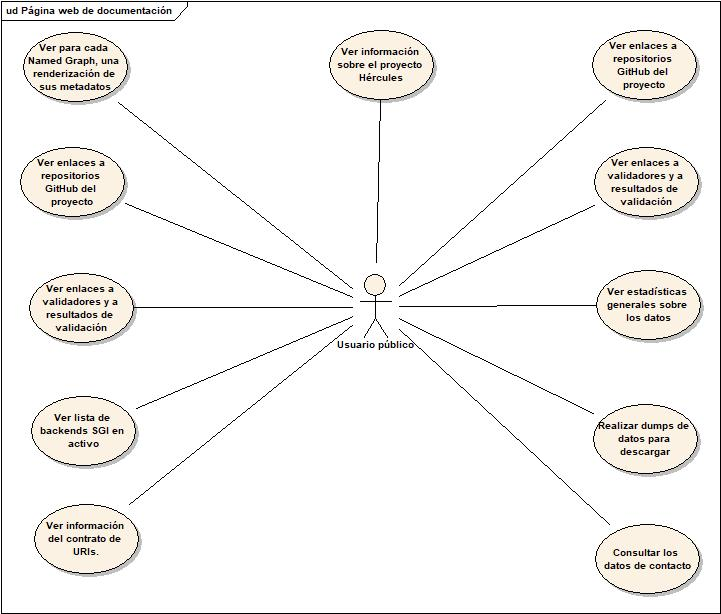
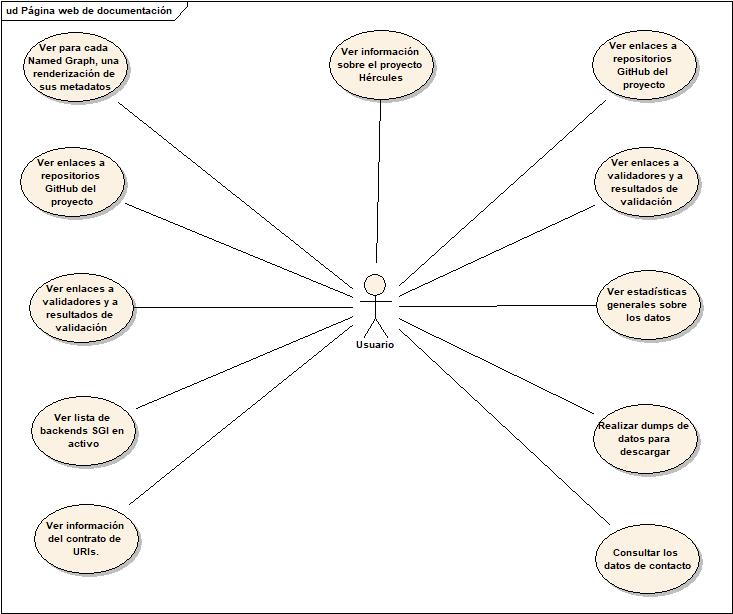
[SEMANTMURC-146] Actualización de documentación

diff --git a/arquitectura_semantica/analisis_funcional/Requisitos/Requisitos funcionales.md b/arquitectura_semantica/analisis_funcional/Requisitos/Requisitos funcionales.md
@@ -13,6 +13,7 @@
 |        | Un usuario público podrá registrarse en la aplicación a través del sistema SIR (Servicio de Identidad de RedIRIS) únicamente. |           |
 |        | El sistema SIR devolverá algunos datos del usuario a la aplicación, al menos un identificador para identificar el usuario y guardarlo en el sistema. |           |
 |        | Un usuario podrá loguearse en la aplicación a través del sistema SIR (Servicio de Identidad de RedIRIS) |           |
+|        | Al registrarse un usuario, si el sistema SIR devuelve algún dato que permita identificar su rol correspondiente, el sistema le asignará automáticamente ese rol. |           |
 |        | La aplicación ASIO ofrecerá un enlace para acceder a través de el sistema SIR, de forma que al acceder mediante este sistema pueda volver a la aplicación de forma automática. |           |
 |        |                                                              |           |
 |        |                                                              |           |
@@ -26,20 +27,20 @@
 
 
 
-- - | Código | Requisito                                                    | Prioridad |
-    | ------ | ------------------------------------------------------------ | --------- |
-    |        | La aplicación constará de una serie de roles predefinidos:<br />- *Gestor ASIO*: Es el administrador del sistema. Podrá administrar roles y modificar la frecuencia de los procesos automáticos de carga de datos. <br />- *Administrador de universidad*: Podrá crear y modificar ontologías relativas a su universidad y les asignará roles, cargar datos relativos a esa universidad y modificar los roles de los datos<br />- *Investigador de universidad*: Podrá ver los datos asignados a su rol, y los datos de usuario para consultas.<br />- *Usuario para consultas de universidad*: Podrá ver datos asignados a este rol.<br />- *Administrador de Ministerio (ministerio, FECYT agencia de ciencia):* Podrá añadir/borrar consultas SparQL personalizadas para los usuarios de Ministerio.<br />- *Usuario de Ministerio (ministerio, FECYT agencia de ciencia):* Podrá ver los datos asignados a su rol y ejecutar consultas SparQL personalizadas.<br />- *Gobierno regional*: Podrá ver los datos asignados a su rol.<br />- *Agencia Española de investigación*: Podrá ver los datos asignados a su rol. |           |
-    |        | Cuando el usuario se registra a través de SIR, si este sistema devuelve su rol y hay una equivalencia con los roles existentes en la aplicación, se le asignará su rol automáticamente. |           |
-    |        | Cuando el usuario se registra a través de SIR, si este sistema devuelve su rol y no hay una equivalencia con los roles existentes en la aplicación, se creará su usuario pero sólo podrá acceder al contenido público del portal. |           |
-    |        | Los usuarios con rol gestor ASIO podrán crear roles mediante una pantalla. |           |
-    |        | Los usuarios con rol gestor ASIO podrán modificar roles mediante una pantalla. |           |
-    |        | Los usuarios con rol gestor ASIO podrán borrar roles mediante una pantalla. |           |
-    |        | Los usuarios con rol gestor ASIO podrán modificar el rol de un usuario haciendo una búsqueda previa de ese usuario en la aplicación web. |           |
-    |        | Los usuarios con rol Gestor ASIO podrán configurar en la aplicación web la frecuencia con la que la aplicación lanzará los procesos automáticos para cargar y actualizar los datos. |           |
-    |        | Los usuarios con rol Gestor Asio podrán modificar los roles asignados a una funcionalidad. |           |
-    |        | Una funcionalidad siempre tendrá un rol asignado, nunca podrá existir una funcionalidad sin rol asignado. |           |
-    |        | Los usuarios con rol Gestor Asio gestionarán los roles asignados a funcionalidades a través de una pantalla diseñada para ello. |           |
-    |        | Los roles asignados a funcionalidades por defecto en la aplicación y sus funcionalidades son:<br />  - Gestor ASIO: Gestionar la administración de roles y de la aplicación, asignar roles a funcionalidades y configurar frecuencia de procesos automáticos.<br />- Administrador de Ministerios: Crear, modificar y borrar las consultas SPARQL predefinidas para los usuarios de ministerios.<br />- Administrador de universidad: Cargar, modificar y borrar datos relativos a investigaciones a su universidad y asignar roles a los campos de las ontologías de su universidad. |           |
+| Código | Requisito                                                    | Prioridad |
+| ------ | ------------------------------------------------------------ | --------- |
+|        | La aplicación constará de una serie de roles predefinidos:<br />- *Gestor ASIO*: Es el administrador del sistema. Podrá administrar roles y modificar la frecuencia de los procesos automáticos de carga de datos. <br />- *Administrador de universidad*: Podrá crear y modificar ontologías relativas a su universidad y les asignará roles, cargar datos relativos a esa universidad y modificar los roles de los datos<br />- *Investigador de universidad*: Podrá ver los datos asignados a su rol, y los datos de usuario para consultas.<br />- *Usuario para consultas de universidad*: Podrá ver datos asignados a este rol.<br />- *Administrador de Ministerio (ministerio, FECYT agencia de ciencia):* Podrá añadir/borrar consultas SparQL personalizadas para los usuarios de Ministerio.<br />- *Usuario de Ministerio (ministerio, FECYT agencia de ciencia):* Podrá ver los datos asignados a su rol y ejecutar consultas SparQL personalizadas.<br />- *Gobierno regional*: Podrá ver los datos asignados a su rol.<br />- *Agencia Española de investigación*: Podrá ver los datos asignados a su rol. |           |
+|        | Cuando el usuario se registra a través de SIR, si este sistema devuelve su rol y hay una equivalencia con los roles existentes en la aplicación, se le asignará su rol automáticamente. |           |
+|        | Cuando el usuario se registra a través de SIR, si este sistema devuelve su rol y no hay una equivalencia con los roles existentes en la aplicación, se creará su usuario pero sólo podrá acceder al contenido público del portal. |           |
+|        | Los usuarios con rol gestor ASIO podrán crear roles mediante una pantalla. |           |
+|        | Los usuarios con rol gestor ASIO podrán modificar roles mediante una pantalla. |           |
+|        | Los usuarios con rol gestor ASIO podrán borrar roles mediante una pantalla. |           |
+|        | Los usuarios con rol gestor ASIO podrán modificar el rol de un usuario haciendo una búsqueda previa de ese usuario en la aplicación web. |           |
+|        | Los usuarios con rol Gestor ASIO podrán configurar en la aplicación web la frecuencia con la que la aplicación lanzará los procesos automáticos para cargar y actualizar los datos. |           |
+|        | Los usuarios con rol Gestor Asio podrán modificar los roles asignados a una funcionalidad. |           |
+|        | Una funcionalidad siempre tendrá un rol asignado, nunca podrá existir una funcionalidad sin rol asignado. |           |
+|        | Los usuarios con rol Gestor Asio gestionarán los roles asignados a funcionalidades a través de una pantalla diseñada para ello. |           |
+|        | Los roles asignados a funcionalidades por defecto en la aplicación y sus funcionalidades son:<br />  - Gestor ASIO: Gestionar la administración de roles y de la aplicación, asignar roles a funcionalidades y configurar frecuencia de procesos automáticos.<br />- Administrador de Ministerios: Crear, modificar y borrar las consultas SPARQL predefinidas para los usuarios de ministerios.<br />- Administrador de universidad: Cargar, modificar y borrar datos relativos a investigaciones a su universidad y asignar roles a los campos de las ontologías de su universidad. |           |
 
 
 
@@ -51,24 +52,15 @@
 | Código | Requisito                                                    | Prioridad |
 | ------ | ------------------------------------------------------------ | --------- |
 |        | Se definirá un vocabulario común que pueda ser comprendido tanto por los desarrolladores como los expertos del dominio. |           |
-|        | Los usuarios con rol administrador de una universidad podrán crear nuevas ontologías usando ficheros como CSV, XML, Json a través de la web con ficheros con un límite de tamaño. |           |
-|        | Los usuarios con rol administrador de una universidad podrán crear nuevas ontologías usando ficheros como CSV, XML, Json a través de un Servicio Rest. |           |
-|        | Los usuarios con rol administrador de una universidad podrán modificar  ontologías usando ficheros como CSV, XML, Json a través de la web. |           |
-|        | Los usuarios con rol administrador de una universidad podrán modificar  ontologías usando ficheros como CSV, XML, Json a través de un Servicio Rest. |           |
-|        | Al importar ontologías por primera vez, a través de cualquier medio, se guardarán los datos, pero las siguientes veces se actualizarán esos datos. |           |
+|        | Al importar los datos de las ontologías por primera vez se guardarán los datos, pero las siguientes veces se actualizarán esos datos. |           |
+|        | Al importar los CVNs por primera vez se guardarán los datos, pero las siguientes veces se actualizarán esos datos. |           |
+|        | Los datos de las ontologías se actualizarán a través de procesos automáticos. |           |
+|        | Los datos de los cvn se actualizarán a través de procesos automáticos. |           |
+|        | Los procesos automáticos tendrán una frecuencia configurable por el usuario con rol administrador de universidad. |           |
 |        | Al crear o modificar ontologías, los campos por defecto tendrán visualización publica, es decir, cualquier usuario, tanto registrados como no registrados, podrán ver los datos de esa ontología. |           |
 |        | Los usuarios con rol administrador de una universidad podrán modificar los roles permitidos para visualizar los campos de una ontología a través de una sección en la aplicación web. |           |
-|        | Los datos se cargarán de forma inicial con un proceso que los importará de la Universidad de Murcia, SGI Hércules, CVN y dos formatos adicionales que serán proporcionados por la universidad de Murcia para su implementación durante el hito 2. |           |
-|        | Se realizará una carga inicial de datos de los **CVNs.**     |           |
-|        | A partir de esa carga inicial sólo se enviarán actualizaciones. |           |
 |        | La aplicación debe de estar preparada para que cada profesor puede disponer de varios currículums. |           |
 |        | Se guardarán CVNs de la Universidad de Murcia, pero el diseño de la aplicación se realizará en base a que se puedan guardar CVNs de todas las universidades. |           |
-|        | Los usuarios con rol administrador de una universidad podrán actualizar los datos de las ontologías usando ficheros como CSV, XML, Json a través de la web con ficheros con un límite de tamaño. |           |
-|        | Los usuarios con rol administrador de una universidad podrán actualizar los datos de las ontologías usando ficheros como CSV, XML, Json a través de un Servicio Rest. |           |
-|        | El sistema dispondrá de un sitio FTP para poder almacenar ficheros de actualización y creación de ontologías. |           |
-|        | El sistema dispondrá de un sitio FTP para poder almacenar ficheros de actualización de datos. |           |
-|        | El sistema dispondrá de un sistema automático, cuya frecuencia podrá ser configurada por los usuarios con rol Gestor ASIO, que actualizará o creará las ontologías con los ficheros del FTP. |           |
-|        | El sistema dispondrá de un sistema automático, cuya frecuencia podrá ser configurada por los usuarios con rol Gestor ASIO, que actualizará o creará los datos de las ontologías con los ficheros del FTP. |           |
 |        | Se realizarán actualizaciones increméntales de datos consultando a los distintos SGIs de las universidades que se harán de forma automática. |           |
 |        | Los datos de entrada al *backend SGI* podrán ser tomados de varias fuentes que pueden estar en formatos diferentes a RDF por lo que el sistema contará con una **librería de importación** de datos que convertirá datos de fuentes heterogéneas en RDF. |           |
 |        | Se creará un Gestor de Datos que coordinará la actividad de todos los módulos para poder realizar las funciones principales del Backend SGI. |           |
@@ -85,7 +77,6 @@
 |        | Al crear un elemento, se buscará su URI y si no existe, se generará una nueva con el generador de URIs. |           |
 |        | **Integración cotínua de las ontologías:** las ontologías serán almacenadas en modo texto en el sistema de control de versiones con el fin de que los creadores de ontologías puedan hacer uso de las prácticas habituales en ingeniería del software para gestión de software mediante control de versiones. |           |
 |        | Estas ontologías, una vez guardadas en el control de versiones, se pasarán a integración contínua para integrarlas en el triple store. |           |
-|        | Las cargas iniciales se realizarán a partir de procesos automáticos. |           |
 |        |                                                              |           |
 
 

diff --git a/arquitectura_semantica/analisis_funcional/Requisitos/Casos de uso.md b/arquitectura_semantica/analisis_funcional/Requisitos/Casos de uso.md
@@ -27,7 +27,7 @@ Para entender los casos de uso debemos saber que en la aplicación ASIO disponem
 
 ### Autentificación
 
-Los usuarios públicos se registran y acceden a través del sistema SIR.
+Un usuario público se puede registrar y acceden a través del sistema SIR.
 
 ![Autentificación](./images/casos-de-uso/autentificacion.JPG)
 
@@ -65,6 +65,6 @@ Todos los usuarios podrán acceder a la pantalla de consultas y hacer consultas 
 
 ## Página web de documentación
 
-La aplicación web permitirá ver las diferentes documentaciones disponibles 
+La aplicación web permitirá ver las diferentes documentaciones disponibles a cualquier usuario.
 
 ![pagina web de documentación](./images/casos-de-uso/pagina-web-de-documentacion.JPG)
